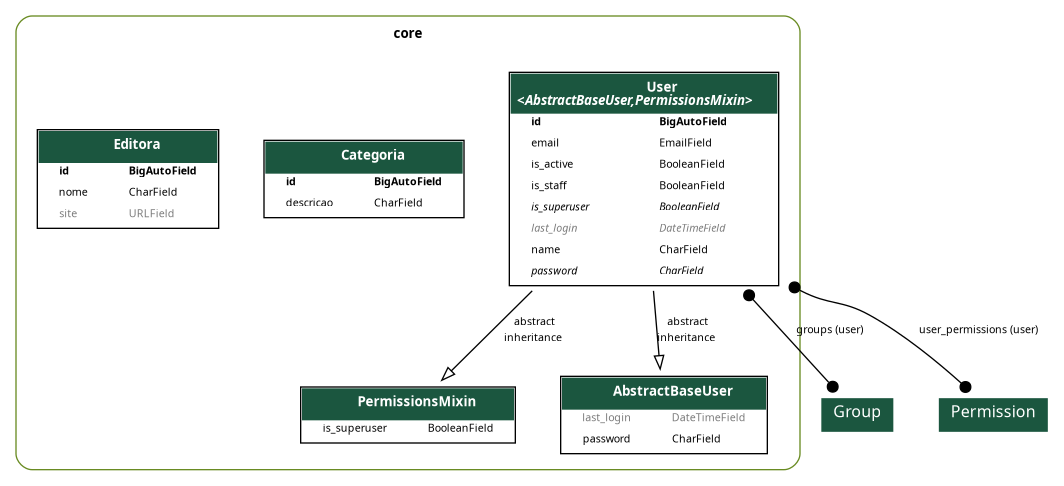
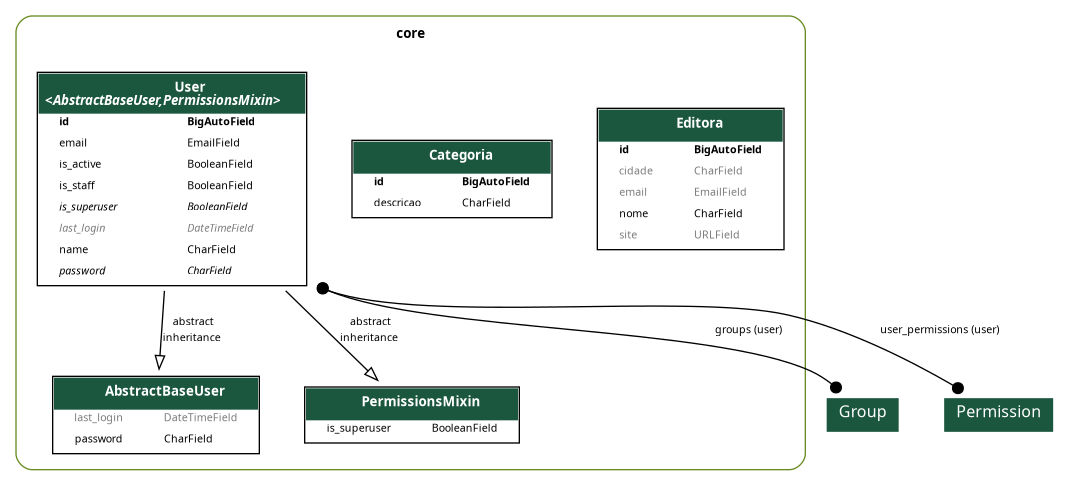
Atualizações de código e traduções

diff --git a/core/migrations/0004_alter_user_options_alter_categoria_descricao_and_more.py b/core/migrations/0004_alter_user_options_alter_categoria_descricao_and_more.py
@@ -1,0 +1,27 @@
+# Generated by Django 5.0.2 on 2024-03-19 19:05
+
+from django.db import migrations, models
+
+
+class Migration(migrations.Migration):
+
+    dependencies = [
+        ("core", "0003_editora"),
+    ]
+
+    operations = [
+        migrations.AlterModelOptions(
+            name="user",
+            options={"verbose_name": "Usuário", "verbose_name_plural": "Usuários"},
+        ),
+        migrations.AlterField(
+            model_name="categoria",
+            name="descricao",
+            field=models.CharField(max_length=100, unique=True),
+        ),
+        migrations.AlterField(
+            model_name="editora",
+            name="nome",
+            field=models.CharField(max_length=100, unique=True),
+        ),
+    ]

diff --git a/core/migrations/0005_editora_cidade_editora_email.py b/core/migrations/0005_editora_cidade_editora_email.py
@@ -1,0 +1,23 @@
+# Generated by Django 5.0.2 on 2024-03-19 19:05
+
+from django.db import migrations, models
+
+
+class Migration(migrations.Migration):
+
+    dependencies = [
+        ("core", "0004_alter_user_options_alter_categoria_descricao_and_more"),
+    ]
+
+    operations = [
+        migrations.AddField(
+            model_name="editora",
+            name="cidade",
+            field=models.CharField(blank=True, max_length=100, null=True),
+        ),
+        migrations.AddField(
+            model_name="editora",
+            name="email",
+            field=models.EmailField(blank=True, max_length=100, null=True),
+        ),
+    ]

diff --git a/core/models/editora.py b/core/models/editora.py
@@ -1,8 +1,10 @@
 from django.db import models
 
 class Editora(models.Model):
-    nome = models.CharField(max_length=100)
+    nome = models.CharField(max_length=100, unique=True)
     site = models.URLField(max_length=200, blank=True, null=True)
+    email = models.EmailField(max_length=100, blank=True, null=True)
+    cidade = models.CharField(max_length=100, blank=True, null=True)
 
     def __str__(self):
-        return self.nome
+        return f"{self.nome} ({self.id})"

diff --git a/app/urls.py b/app/urls.py
@@ -15,7 +15,7 @@ from core.views import CategoriaViewSet, EditoraViewSet
 router = DefaultRouter()
 router.register(r"categorias", CategoriaViewSet)
 router.register(r"editoras", EditoraViewSet)
-router.register(r"users", UserViewSet, basename="users")
+router.register(r"usuarios", UserViewSet, basename="usuarios")
 
 urlpatterns = [
     path("admin/", admin.site.urls),

diff --git a/core/models/categoria.py b/core/models/categoria.py
@@ -1,7 +1,7 @@
 from django.db import models
 
 class Categoria(models.Model):
-    descricao = models.CharField(max_length=100)
+    descricao = models.CharField(max_length=100, unique=True)
 
     def __str__(self):
-        return self.descricao
+        return f"{self.descricao} ({self.id})"

diff --git a/core/models/user.py b/core/models/user.py
@@ -44,3 +44,7 @@ class User(AbstractBaseUser, PermissionsMixin):
     objects = UserManager()
 
     USERNAME_FIELD = "email"
+
+    class Meta:
+        verbose_name = "Usuário"
+        verbose_name_plural = "Usuários"

diff --git a/README.md b/README.md
@@ -90,5 +90,3 @@ Esse projeto utiliza os seguintes pacotes e tecnologias:
 
 Este projeto está licenciado sob a [Licença GPL](https://www.gnu.org/licenses/gpl-3.0.html), uma licença de software livre.
 
-
-
